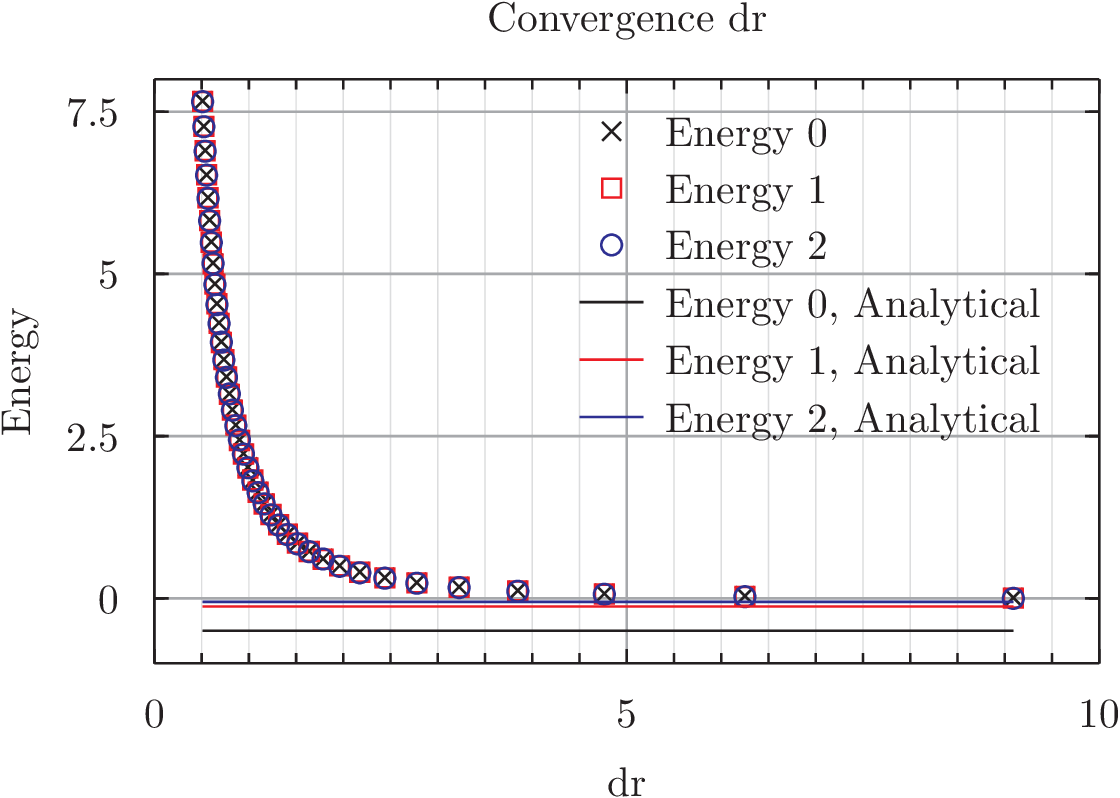
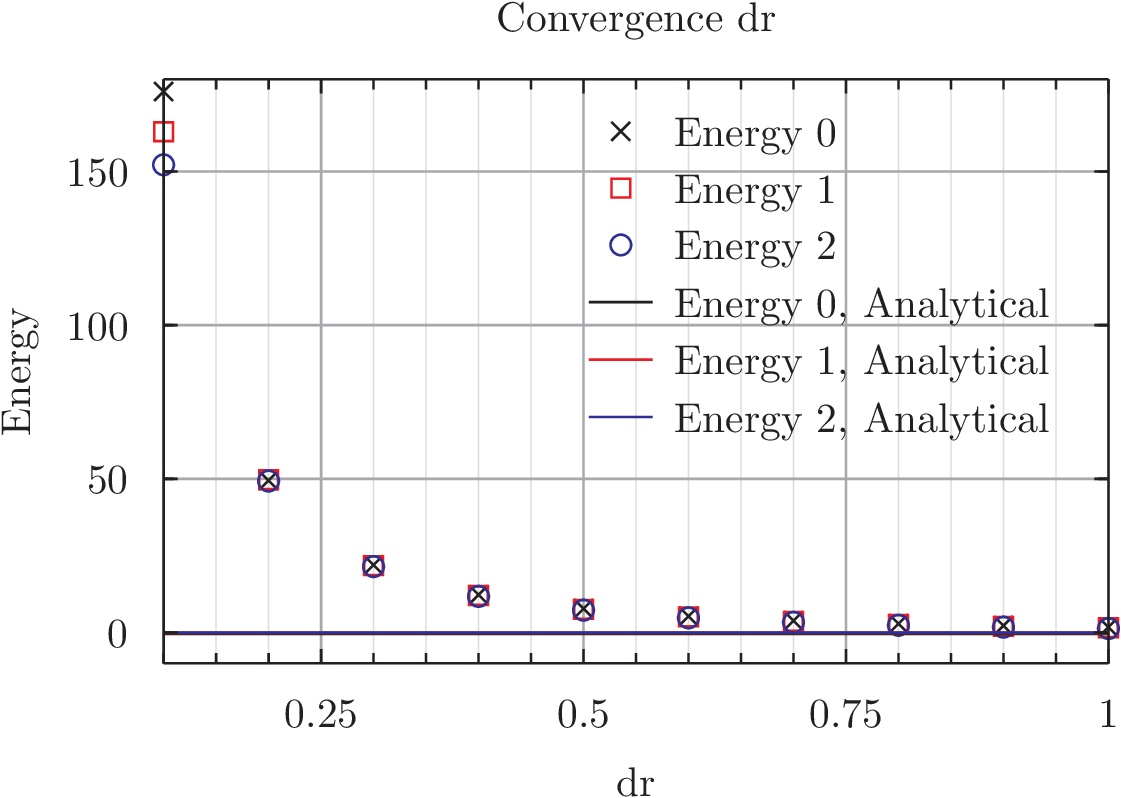
Working on eig part B

diff --git a/homework/eigenvalues/B/main.cs b/homework/eigenvalues/B/main.cs
@@ -6,23 +6,23 @@ class main{
 	static void Main(){
 	// Investigate convergence of your energies with respect to and dr.
 		StreamWriter sw_dr = new StreamWriter("drConv.dat");
-		for(int N = 10; N<200; N+=5){
-			double rmax = 100; 
-			var H = hem(rmax,N);
+		for(double dr = 0.1; dr<1; dr+=0.1){
+			double rmax = 10; 
+			var H = hem(rmax,dr);
 			// Diagonalize the matrix using your Jacobi routine
 			matrix V; 
 			vector eig; 
 			(eig,V) = jacobi.cyclic(H);
-			sw_dr.WriteLine($"{rmax/(N+1)}  {eig[0]} {eig[1]} {eig[2]}	-0.5	-0.125	-0.055" );
+			sw_dr.WriteLine($"{dr}  {eig[0]} {eig[1]} {eig[2]}	-0.5	-0.125	-0.055" );
 		}
 		sw_dr.Close();
 
 
 	// Investigate convergence of your energies with respect to rmax.
 		StreamWriter sw_rmax = new StreamWriter("rmaxConv.dat");
-		for(double rmax = 10; rmax<200; rmax+=5){
-			int N = 100; 
-			var H = hem(rmax,N);
+		for(double rmax = 1; rmax<20; rmax+=2){
+			double dr = 0.2; 
+			var H = hem(rmax,dr);
 			// Diagonalize the matrix using your Jacobi routine
 			matrix V; 
 			vector eig; 
@@ -31,11 +31,12 @@ class main{
 			sw_rmax.WriteLine($"{rmax}  {eig[0]} {eig[1]} {eig[2]}	-0.5	-0.125	-0.055");
 		}
 		sw_rmax.Close();
+	
 	}
 
-	static matrix hem(double rmax, int N){
+	static matrix hem(double rmax, double dr){
 		// Boild the Hamiltoanian matrix
-		double dr = rmax/(N+1);
+		int N = (int) (rmax/dr)-1;
 		var r = new vector(N); 
 		var H = new matrix(N,N); 
 		for(int i=0;i<N;i++)
